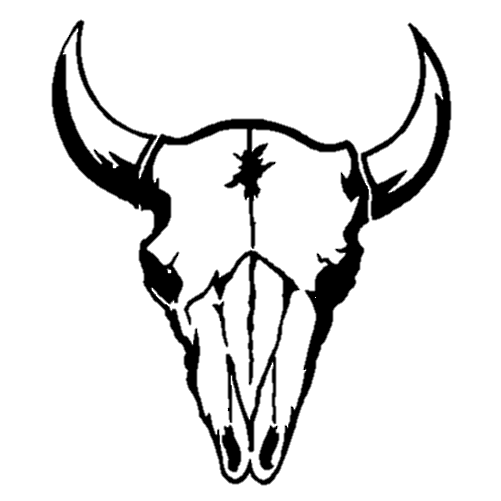
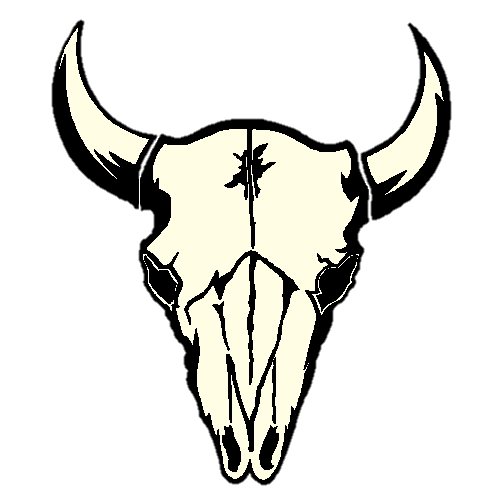
update data, new fonts

Changed region(s): [[0.1198, 0.0599, 0.8982, 0.9581], [0.6886, 0.5389, 0.7186, 0.5689]]

diff --git a/affrilachianpoets/index.html b/affrilachianpoets/index.html
@@ -13,6 +13,8 @@
     <link href='http://fonts.googleapis.com/css?family=Lato' rel='stylesheet' type='text/css'>
     <link href="https://fonts.googleapis.com/css?family=Rock+Salt" rel="stylesheet"> 
     <link href="https://fonts.googleapis.com/css?family=Reenie+Beanie" rel="stylesheet"> 
+<link href="https://fonts.googleapis.com/css?family=Nothing+You+Could+Do" rel="stylesheet">  
+     
     
 
     <style>
@@ -39,6 +41,10 @@
         p {
             font-family: 'Lato', sans-serif;
             font-size: 1em;
+        }
+        p2 {
+            font-family: 'Nothing You Could Do', cursive;
+            font-size: 1.5em;
         }
         .leaflet-popup-content-wrapper {
             background: rgba(75,75,75,0.8);
@@ -76,11 +82,11 @@
         map = L.map(targetDiv, options);
         
         //      get and set bounds
-        var bounds = map.getBounds();
-        var southwest = bounds.getSouthWest();
-        var northeast = bounds.getNorthEast();
-        map.setMaxBounds(bounds);
-        
+//        var bounds = map.getBounds();
+//        var southwest = bounds.getSouthWest();
+//        var northeast = bounds.getNorthEast();
+//        map.setMaxBounds(bounds);
+//        
         
         
 //       ** STAMEN watercolor ** 
@@ -91,13 +97,13 @@
 //        });
 
 //      ** NASA water reflecting bands **  
-//        var tiles = L.tileLayer('http://gibs.earthdata.nasa.gov/wmts/epsg3857/best/MODIS_Aqua_CorrectedReflectance_Bands721/default/2014-04-09/GoogleMapsCompatible_Level9/{z}/{y}/{x}.jpg');
+        var tiles = L.tileLayer('http://gibs.earthdata.nasa.gov/wmts/epsg3857/best/MODIS_Aqua_CorrectedReflectance_Bands721/default/2014-04-09/GoogleMapsCompatible_Level9/{z}/{y}/{x}.jpg');
 //        
 //     ** NASA cloud optical thicknesss**         
 //        var tiles = L.tileLayer('http://gibs.earthdata.nasa.gov/wmts/epsg3857/best/MODIS_Terra_Cloud_Optical_Thickness/default/2014-12-24/GoogleMapsCompatible_Level7/{z}/{y}/{x}.png');
 //        
 //      ** NASA surface reflectance (true color)**         
-        var tiles = L.tileLayer('http://gibs.earthdata.nasa.gov/wmts/epsg3857/best/MODIS_Terra_SurfaceReflectance_Bands143/default/2014-01-01/GoogleMapsCompatible_Level8/{z}/{y}/{x}.jpg');
+//        var tiles = L.tileLayer('http://gibs.earthdata.nasa.gov/wmts/epsg3857/best/MODIS_Terra_SurfaceReflectance_Bands143/default/2014-01-01/GoogleMapsCompatible_Level8/{z}/{y}/{x}.jpg');
         
 //      ** NASA surface reflectance (bands 121)**         
 //        var tiles = L.tileLayer('http://gibs.earthdata.nasa.gov/wmts/epsg3857/best/MODIS_Terra_SurfaceReflectance_Bands121/default/2014-01-01/GoogleMapsCompatible_Level9/{z}/{y}/{x}.jpg');
@@ -120,18 +126,18 @@
         map.addLayer(tiles);
         
         
-        var countryOutline = L.geoJson(us, {
-            fillOpacity: 0,
-            weight: 5,
-            color: 'black'
-        }).addTo(map);
+//        var countryOutline = L.geoJson(us, {
+//            fillOpacity: 0,
+//            weight: 5,
+//            color: 'black'
+//        }).addTo(map);
 //    
         
         var icon = L.icon({
-            iconUrl: 'bison2.png',
+            iconUrl: 'bison.png',
             iconSize:     [60, 60], // size of the icon
             iconAnchor:   [25, 25], // point of the icon which will correspond to marker's location
-            popupAnchor:  [-3, -76] // point from which the popup should open relative to the iconAnchor
+            popupAnchor:  [6, -20] // point from which the popup should open relative to the iconAnchor
         });
         
         
@@ -161,7 +167,7 @@
             
             for (i = 0; i < 10; i++) {
                 
-                var content = "<b>"+("<h1>"+data.data[i].name+"</b><br></h1>")+ ("<p>"+data.data[i].city+", "+data.data[i].state+"<br>"+data.data[i].quote+"<br></p>") + "<figure><img src='1_"+data.data[i].photo+".jpg' width=100></figure>";
+                var content = "<b>"+("<h1>"+data.data[i].name+"</b><br></h1>")+ ("<p>"+data.data[i].city+", "+data.data[i].state+"</p><br>"+"<p2>"+data.data[i].quote+"<br></p2>") + "<figure><img src='1_"+data.data[i].photo+".jpg' width=150></figure>";
                 
                 L.marker([data.data[i].lat,data.data[i].lng], {icon:icon}).bindPopup(content, {closeButton: false, keepInView: true}).on('mouseover',function(e){this.openPopup()}).on('mouseout', function(e){this.closePopup()}).addTo(map);
 
